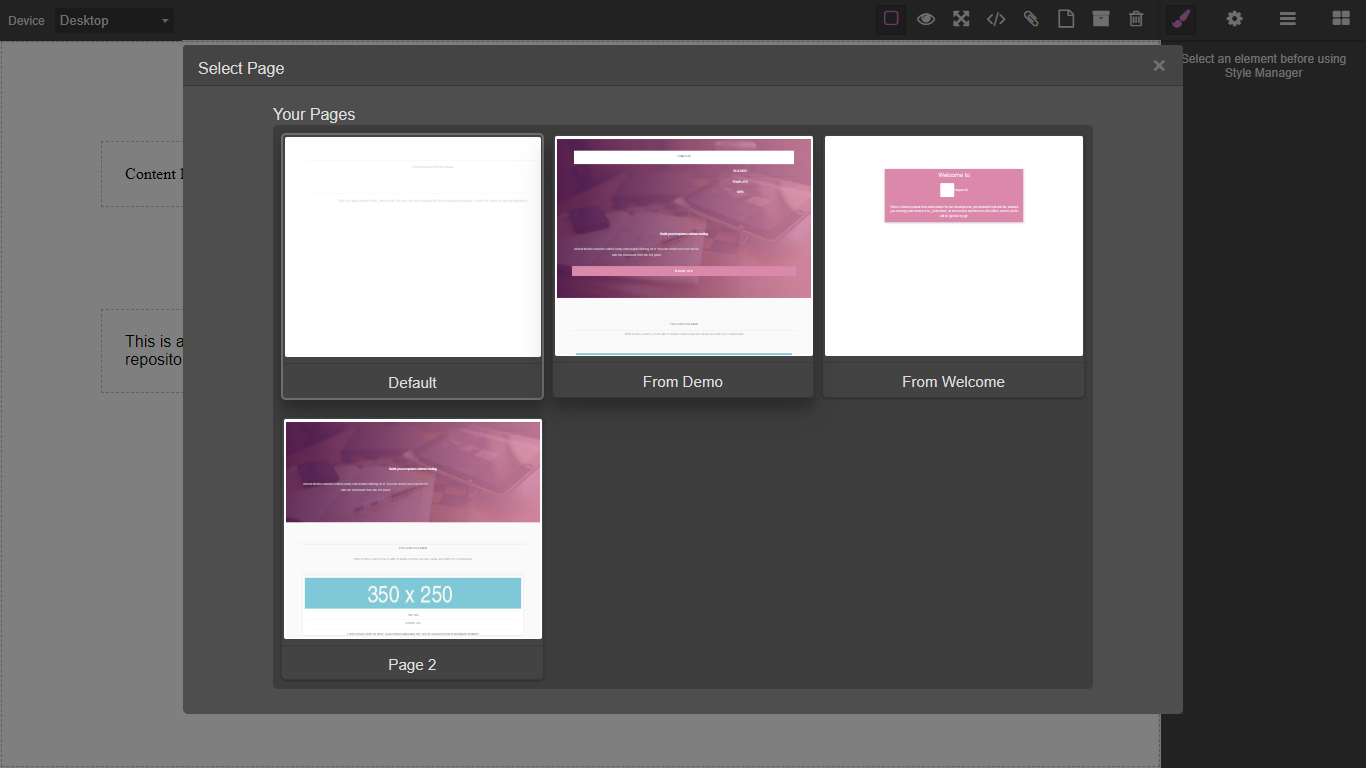
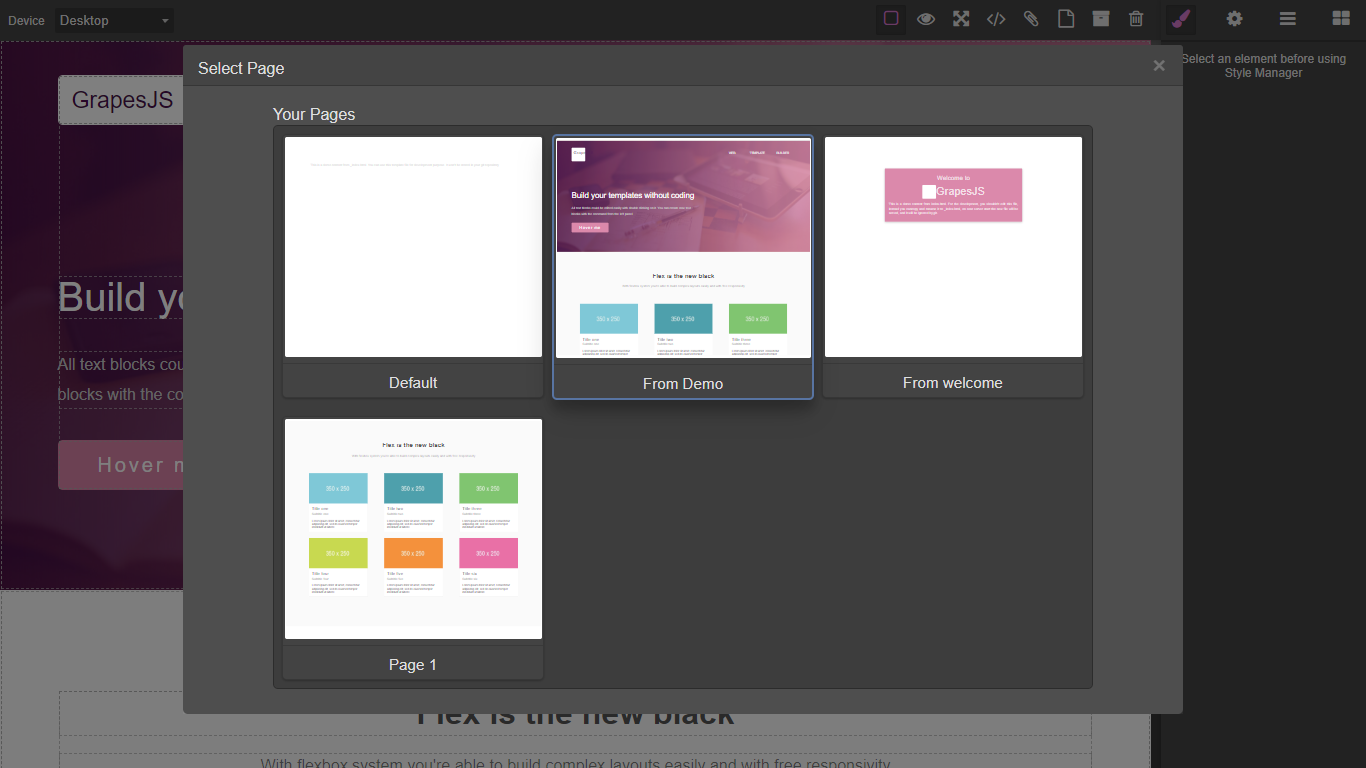
Improve template previews

diff --git a/dist/grapesjs-indexeddb-ui.min.js b/dist/grapesjs-indexeddb-ui.min.js
@@ -1,3 +1,3 @@
-/*! grapesjs-indexeddb-ui - 1.0.1 */
-!function(e,t){'object'==typeof exports&&'object'==typeof module?module.exports=t():'function'==typeof define&&define.amd?define([],t):'object'==typeof exports?exports["grapesjs-indexeddb-ui"]=t():e["grapesjs-indexeddb-ui"]=t()}(window,(function(){return function(e){var t={};function n(r){if(t[r])return t[r].exports;var o=t[r]={i:r,l:!1,exports:{}};return e[r].call(o.exports,o,o.exports,n),o.l=!0,o.exports}return n.m=e,n.c=t,n.d=function(e,t,r){n.o(e,t)||Object.defineProperty(e,t,{enumerable:!0,get:r})},n.r=function(e){'undefined'!=typeof Symbol&&Symbol.toStringTag&&Object.defineProperty(e,Symbol.toStringTag,{value:'Module'}),Object.defineProperty(e,'__esModule',{value:!0})},n.t=function(e,t){if(1&t&&(e=n(e)),8&t)return e;if(4&t&&'object'==typeof e&&e&&e.__esModule)return e;var r=Object.create(null);if(n.r(r),Object.defineProperty(r,'default',{enumerable:!0,value:e}),2&t&&'string'!=typeof e)for(var o in e)n.d(r,o,function(t){return e[t]}.bind(null,o));return r},n.n=function(e){var t=e&&e.__esModule?function(){return e.default}:function(){return e};return n.d(t,'a',t),t},n.o=function(e,t){return Object.prototype.hasOwnProperty.call(e,t)},n.p="",n(n.s=2)}([function(e,t,n){var r=n(3);e.exports=function(e,t){if(null==e)return{};var n,o,s=r(e,t);if(Object.getOwnPropertySymbols){var a=Object.getOwnPropertySymbols(e);for(o=0;o<a.length;o++)n=a[o],t.indexOf(n)>=0||Object.prototype.propertyIsEnumerable.call(e,n)&&(s[n]=e[n])}return s}},function(e,t){e.exports=function(e,t,n){return t in e?Object.defineProperty(e,t,{value:n,enumerable:!0,configurable:!0,writable:!0}):e[t]=n,e}},function(e,t,n){"use strict";n.r(t);var r=n(0),o=n.n(r),s=n(1),a=n.n(s);function i(e,t){var n=Object.keys(e);if(Object.getOwnPropertySymbols){var r=Object.getOwnPropertySymbols(e);t&&(r=r.filter((function(t){return Object.getOwnPropertyDescriptor(e,t).enumerable}))),n.push.apply(n,r)}return n}function c(e){for(var t=1;t<arguments.length;t++){var n=null!=arguments[t]?arguments[t]:{};t%2?i(Object(n),!0).forEach((function(t){a()(e,t,n[t])})):Object.getOwnPropertyDescriptors?Object.defineProperties(e,Object.getOwnPropertyDescriptors(n)):i(Object(n)).forEach((function(t){Object.defineProperty(e,t,Object.getOwnPropertyDescriptor(n,t))}))}return e}t.default=function(e){var t,n=arguments.length>1&&void 0!==arguments[1]?arguments[1]:{},r=c(c({},{dbName:'gjs',objectStoreName:'templates',indexeddbVersion:4,addOnUpgrade:0}),n),s="Default",a="",i="Blank",d=!1,l=document.querySelectorAll.bind(document),u=e.Commands,p=e.Modal,f=e.StorageManager,g='indexeddb',m=r.objectStoreName,v=function(){return f.getConfig().id||'gjs-'},b=function(){return t},j=function(e){if(t)e(t);else{var n=(window.indexedDB||window.mozIndexedDB||window.webkitIndexedDB||window.msIndexedDB).open(r.dbName,r.indexeddbVersion),o=function(){return f.onError(g,n.errorCode)};n.onerror=o,n.onsuccess=function(){(t=n.result).onerror=o,e(t)},n.onupgradeneeded=function(e){e.currentTarget.result.createObjectStore(m,{keyPath:'id'}),r.addOnUpgrade&&r.addOnUpgrade.forEach((function(e){O((function(t){t.put(c({id:e.id,template:e.template},e))}))}))}}},y=function(){return t.transaction([m],'readwrite').objectStore(m)},O=function(e){t?e(y()):j((function(t){return e(y())}))};f.add(g,{getDb:b,getObjectStore:y,load:function(e,t,n){O((function(e){var r=e.get(s);r.onerror=n,r.onsuccess=function(){var e=r.result||{},n=(e.id,e.template,o()(e,["id","template"]));t(n)}}))},loadAll:function(e,t){O((function(n){var r=n.getAll();r.onerror=t,r.onsuccess=function(){e(r.result)}}))},store:function(e,t,n){O((function(r){var o=r.put(c({id:s,template:d},e));o.onerror=n,o.onsuccess=t}))},delete:function(e,t){O((function(n){var r=n.delete(s);r.onerror=t,r.onsuccess=e}))}});var x=function(e,t){return"<div class=\"gjs-templates-card\" data-id=\"".concat(e,"\">\n      ").concat(t,"\n    </div>")},w=function(e){return"<div class=\"gjs-templates-card-2\">\n      ".concat(e,"\n    </div>")},h=function(e){return"<div id=\"templates\" class=\"gjs-templates gjs-one-bg gjs-two-color\">\n      <div class=\"gjs-templates-overlay\"></div>\n      <div class=\"gjs-templates-cont\">\n        <div class=\"gjs-fonts\">\n          <label style=\"font-size: 0.9rem;font-family: Arial, Helvetica, sans-serif; display: block;\" for=\"page-name\">Name</label>\n          <div style=\"width: 50%; display: inline-block;\" class=\"gjs-field\">\n            <input style=\"border: 1px solid rgba(0, 0, 0, 0.2);\n              border-radius: 5px;\n              font-family: Arial, Helvetica, sans-serif;\" type=\"text\" name=\"pageName\" id=\"page-name\">\n          </div>\n          <span style=\"display: inline-block;\">\n            <button class=\"gjs-btn-prim\" style=\"padding: 10px;\n            border-radius: 3px;\n            font-size: 0.9rem;\n            margin-left: 220px;\" id=\"template-edit\">Edit Selected</button>\n          </span>\n          <span style=\"display: inline-block;\">\n            <button class=\"gjs-btn-prim\" style=\"padding: 10px;\n              border-radius: 3px;\n              font-size: 0.9rem;\n              margin-left: 10px;\" id=\"page-create\">Create</button>\n          </span>\n        </div>\n        <div class=\"gjs-templates-header2\">\n          Templates\n        </div>\n        ".concat(e,"\n      </div>\n    </div>")},S=function(e){return"<div id=\"pages\" class=\"gjs-templates gjs-one-bg gjs-two-color\">\n    <div class=\"gjs-templates-overlay\"></div>\n    <div class=\"gjs-templates-cont\">\n      <div class=\"gjs-templates-header2\">\n        Your Pages\n      </div>\n      ".concat(e,"\n      </div>\n    </div>")},P=function(e){var t=!(arguments.length>1&&void 0!==arguments[1])||arguments[1],n='';return e.forEach((function(e){var r="<svg xmlns=\"http://www.w3.org/2000/svg\" class=\"template-preview\" viewBox=\"0 0 1300 1100\" width=\"99%\" height=\"220\">\n        <foreignObject width=\"100%\" height=\"100%\">\n          <div xmlns=\"http://www.w3.org/1999/xhtml\" ".concat(e[v()+'html']?'':'padding-top:100%',"\">\n          ").concat(e[v()+'html']+'<style>'+e[v()+'css']+'</style>',"\n          </div>\n        </foreignObject>\n      </svg>"),o="".concat(r,"\n      <div>").concat(e.id,"</div>");t?e.template&&(n+=x(e.id,o)):!e.template&&(n+=x(e.id,o))})),t?h(w(n)):S(w(n))};u.add('open-templates',{run:function(e,t){var n=document.querySelector('.gjs-mdl-dialog');n.classList.add("gjs-mdl-dialog-tml"),t&&t.set&&t.set('active'),p.setTitle('<div style="font-size: 1rem">Create Page</div>'),e.Storage.get('indexeddb').loadAll((function(t){p.setContent(P(t)),l('.gjs-templates-card').forEach((function(e){return e.dataset.id==i&&e.classList.add('gjs-templates-card-active')})),l('#page-name')[0].addEventListener('keyup',(function(e){return a=e.currentTarget.value})),l('#page-create')[0].addEventListener('click',(function(t){s=i,d=!1,a&&e.load((function(t){e.setComponents(t.components?JSON.parse(t.components):t.html),e.setStyle(t.styles?JSON.parse(t.styles):t.css),s=a,p.close()}))})),l('#template-edit')[0].addEventListener('click',(function(t){s=i,d=!0,e.load((function(t){e.setComponents(t.components?JSON.parse(t.components):t.html),e.setStyle(t.styles?JSON.parse(t.styles):t.css),p.close()}))})),l('.gjs-templates-card').forEach((function(e){e.addEventListener('click',(function(t){i=t.currentTarget.dataset.id,l('.gjs-templates-card').forEach((function(e){return e.classList.remove('gjs-templates-card-active')})),e.classList.add('gjs-templates-card-active')}))}))}),(function(e){return console.log("Error",e)})),p.open(),p.getModel().once('change:open',(function(){document.querySelector('.gjs-mdl-collector').innerHTML="",n.classList.remove("gjs-mdl-dialog-tml")}))}}),u.add('open-pages',{run:function(e,t){var n=document.querySelector('.gjs-mdl-dialog');n.classList.add("gjs-mdl-dialog-tml"),t&&t.set&&t&&t.set('active'),p.setTitle('<div style="font-size: 1rem">Select Page</div>'),e.Storage.get('indexeddb').loadAll((function(t){p.setContent(P(t,!1)),l('.gjs-templates-card').forEach((function(e){return e.dataset.id==s&&e.classList.add('gjs-templates-card-active')})),l('.gjs-templates-card').forEach((function(t){t.addEventListener('click',(function(t){s=t.currentTarget.dataset.id,d=!1,e.load((function(t){e.setComponents(t.components?JSON.parse(t.components):t.html),e.setStyle(t.styles?JSON.parse(t.styles):t.css),p.close()}))}))}))}),(function(e){return console.log("Error",e)})),p.open(),p.getModel().once('change:open',(function(){document.querySelector('.gjs-mdl-collector').innerHTML="",n.classList.remove("gjs-mdl-dialog-tml")}))}}),u.add('save-as-template',{run:function(e,t){d=!0,e.store()}}),u.add('delete-from-idb',{run:function(e,t){e.Storage.get('indexeddb').delete((function(e){return console.log(e)}),(function(e){return console.log(e)})),e.Commands.run('open-pages')}})}},function(e,t){e.exports=function(e,t){if(null==e)return{};var n,r,o={},s=Object.keys(e);for(r=0;r<s.length;r++)n=s[r],t.indexOf(n)>=0||(o[n]=e[n]);return o}}])}));
+/*! grapesjs-indexeddb-ui - 1.0.2 */
+!function(e,t){'object'==typeof exports&&'object'==typeof module?module.exports=t():'function'==typeof define&&define.amd?define([],t):'object'==typeof exports?exports["grapesjs-indexeddb-ui"]=t():e["grapesjs-indexeddb-ui"]=t()}(window,(function(){return function(e){var t={};function n(r){if(t[r])return t[r].exports;var o=t[r]={i:r,l:!1,exports:{}};return e[r].call(o.exports,o,o.exports,n),o.l=!0,o.exports}return n.m=e,n.c=t,n.d=function(e,t,r){n.o(e,t)||Object.defineProperty(e,t,{enumerable:!0,get:r})},n.r=function(e){'undefined'!=typeof Symbol&&Symbol.toStringTag&&Object.defineProperty(e,Symbol.toStringTag,{value:'Module'}),Object.defineProperty(e,'__esModule',{value:!0})},n.t=function(e,t){if(1&t&&(e=n(e)),8&t)return e;if(4&t&&'object'==typeof e&&e&&e.__esModule)return e;var r=Object.create(null);if(n.r(r),Object.defineProperty(r,'default',{enumerable:!0,value:e}),2&t&&'string'!=typeof e)for(var o in e)n.d(r,o,function(t){return e[t]}.bind(null,o));return r},n.n=function(e){var t=e&&e.__esModule?function(){return e.default}:function(){return e};return n.d(t,'a',t),t},n.o=function(e,t){return Object.prototype.hasOwnProperty.call(e,t)},n.p="",n(n.s=2)}([function(e,t,n){var r=n(3);e.exports=function(e,t){if(null==e)return{};var n,o,s=r(e,t);if(Object.getOwnPropertySymbols){var a=Object.getOwnPropertySymbols(e);for(o=0;o<a.length;o++)n=a[o],t.indexOf(n)>=0||Object.prototype.propertyIsEnumerable.call(e,n)&&(s[n]=e[n])}return s}},function(e,t){e.exports=function(e,t,n){return t in e?Object.defineProperty(e,t,{value:n,enumerable:!0,configurable:!0,writable:!0}):e[t]=n,e}},function(e,t,n){"use strict";n.r(t);var r=n(0),o=n.n(r),s=n(1),a=n.n(s);function i(e,t){var n=Object.keys(e);if(Object.getOwnPropertySymbols){var r=Object.getOwnPropertySymbols(e);t&&(r=r.filter((function(t){return Object.getOwnPropertyDescriptor(e,t).enumerable}))),n.push.apply(n,r)}return n}function c(e){for(var t=1;t<arguments.length;t++){var n=null!=arguments[t]?arguments[t]:{};t%2?i(Object(n),!0).forEach((function(t){a()(e,t,n[t])})):Object.getOwnPropertyDescriptors?Object.defineProperties(e,Object.getOwnPropertyDescriptors(n)):i(Object(n)).forEach((function(t){Object.defineProperty(e,t,Object.getOwnPropertyDescriptor(n,t))}))}return e}t.default=function(e){var t,n=arguments.length>1&&void 0!==arguments[1]?arguments[1]:{},r=c(c({},{dbName:'gjs',objectStoreName:'templates',indexeddbVersion:4,addOnUpgrade:0}),n),s="Default",a="",i="Blank",d=!1,l=document.querySelectorAll.bind(document),u=e.Commands,p=e.Modal,f=e.StorageManager,g='indexeddb',m=r.objectStoreName,v=function(){return f.getConfig().id||'gjs-'},b=function(){return t},j=function(e){if(t)e(t);else{var n=(window.indexedDB||window.mozIndexedDB||window.webkitIndexedDB||window.msIndexedDB).open(r.dbName,r.indexeddbVersion),o=function(){return f.onError(g,n.errorCode)};n.onerror=o,n.onsuccess=function(){(t=n.result).onerror=o,e(t)},n.onupgradeneeded=function(e){e.currentTarget.result.createObjectStore(m,{keyPath:'id'}),r.addOnUpgrade&&r.addOnUpgrade.forEach((function(e){O((function(t){t.put(c({id:e.id,template:e.template},e))}))}))}}},y=function(){return t.transaction([m],'readwrite').objectStore(m)},O=function(e){t?e(y()):j((function(t){return e(y())}))};f.add(g,{getDb:b,getObjectStore:y,load:function(e,t,n){O((function(e){var r=e.get(s);r.onerror=n,r.onsuccess=function(){var e=r.result||{},n=(e.id,e.template,o()(e,["id","template"]));t(n)}}))},loadAll:function(e,t){O((function(n){var r=n.getAll();r.onerror=t,r.onsuccess=function(){e(r.result)}}))},store:function(e,t,n){O((function(r){var o=r.put(c({id:s,template:d},e));o.onerror=n,o.onsuccess=t}))},delete:function(e,t){O((function(n){var r=n.delete(s);r.onerror=t,r.onsuccess=e}))}});var x=function(e,t){return"<div class=\"gjs-templates-card\" data-id=\"".concat(e,"\">\n      ").concat(t,"\n    </div>")},w=function(e){return"<div class=\"gjs-templates-card-2\">\n      ".concat(e,"\n    </div>")},h=function(e){return"<div id=\"templates\" class=\"gjs-templates gjs-one-bg gjs-two-color\">\n      <div class=\"gjs-templates-overlay\"></div>\n      <div class=\"gjs-templates-cont\">\n        <div class=\"gjs-fonts\">\n          <label style=\"font-size: 0.9rem;font-family: Arial, Helvetica, sans-serif; display: block;\" for=\"page-name\">Name</label>\n          <div style=\"width: 50%; display: inline-block;\" class=\"gjs-field\">\n            <input style=\"border: 1px solid rgba(0, 0, 0, 0.2);\n              border-radius: 5px;\n              font-family: Arial, Helvetica, sans-serif;\" type=\"text\" name=\"pageName\" id=\"page-name\">\n          </div>\n          <span style=\"display: inline-block;\">\n            <button class=\"gjs-btn-prim\" style=\"padding: 10px;\n            border-radius: 3px;\n            font-size: 0.9rem;\n            margin-left: 220px;\" id=\"template-edit\">Edit Selected</button>\n          </span>\n          <span style=\"display: inline-block;\">\n            <button class=\"gjs-btn-prim\" style=\"padding: 10px;\n              border-radius: 3px;\n              font-size: 0.9rem;\n              margin-left: 10px;\" id=\"page-create\">Create</button>\n          </span>\n        </div>\n        <div class=\"gjs-templates-header2\">\n          Templates\n        </div>\n        ".concat(e,"\n      </div>\n    </div>")},S=function(e){return"<div id=\"pages\" class=\"gjs-templates gjs-one-bg gjs-two-color\">\n    <div class=\"gjs-templates-overlay\"></div>\n    <div class=\"gjs-templates-cont\">\n      <div class=\"gjs-templates-header2\">\n        Your Pages\n      </div>\n      ".concat(e,"\n      </div>\n    </div>")},P=function(e){var t=!(arguments.length>1&&void 0!==arguments[1])||arguments[1],n='';return e.forEach((function(e){var r="<svg xmlns=\"http://www.w3.org/2000/svg\" class=\"template-preview\" viewBox=\"0 0 1300 1100\" width=\"99%\" height=\"220\">\n        <foreignObject width=\"100%\" height=\"100%\" style=\"pointer-events:none\">\n          <div xmlns=\"http://www.w3.org/1999/xhtml\" ".concat(e[v()+'html']?'':'padding-top:100%',"\">\n          ").concat(e[v()+'html']+'<style scoped>'+e[v()+'css']+'</style>',"\n          </div>\n        </foreignObject>\n      </svg>"),o="".concat(r,"\n      <div class=\"label\">").concat(e.id,"</div>");t?e.template&&(n+=x(e.id,o)):!e.template&&(n+=x(e.id,o))})),t?h(w(n)):S(w(n))};u.add('open-templates',{run:function(e,t){var n=document.querySelector('.gjs-mdl-dialog');n.classList.add("gjs-mdl-dialog-tml"),t&&t.set&&t.set('active'),p.setTitle('<div style="font-size: 1rem">Create Page</div>'),e.Storage.get('indexeddb').loadAll((function(t){p.setContent(P(t)),l('.gjs-templates-card').forEach((function(e){return e.dataset.id==i&&e.classList.add('gjs-templates-card-active')})),l('#page-name')[0].addEventListener('keyup',(function(e){return a=e.currentTarget.value})),l('#page-create')[0].addEventListener('click',(function(t){s=i,d=!1,a&&e.load((function(t){e.setComponents(t.components?JSON.parse(t.components):t.html),e.setStyle(t.styles?JSON.parse(t.styles):t.css),s=a,p.close()}))})),l('#template-edit')[0].addEventListener('click',(function(t){s=i,d=!0,e.load((function(t){e.setComponents(t.components?JSON.parse(t.components):t.html),e.setStyle(t.styles?JSON.parse(t.styles):t.css),p.close()}))})),l('.gjs-templates-card').forEach((function(e){e.addEventListener('click',(function(t){i=t.currentTarget.dataset.id,l('.gjs-templates-card').forEach((function(e){return e.classList.remove('gjs-templates-card-active')})),e.classList.add('gjs-templates-card-active')}))}))}),(function(e){return console.log("Error",e)})),p.open(),p.getModel().once('change:open',(function(){document.querySelector('.gjs-mdl-collector').innerHTML="",n.classList.remove("gjs-mdl-dialog-tml")}))}}),u.add('open-pages',{run:function(e,t){var n=document.querySelector('.gjs-mdl-dialog');n.classList.add("gjs-mdl-dialog-tml"),t&&t.set&&t&&t.set('active'),p.setTitle('<div style="font-size: 1rem">Select Page</div>'),e.Storage.get('indexeddb').loadAll((function(t){p.setContent(P(t,!1)),l('.gjs-templates-card').forEach((function(e){return e.dataset.id==s&&e.classList.add('gjs-templates-card-active')})),l('.gjs-templates-card').forEach((function(t){t.addEventListener('click',(function(t){s=t.currentTarget.dataset.id,d=!1,e.load((function(t){e.setComponents(t.components?JSON.parse(t.components):t.html),e.setStyle(t.styles?JSON.parse(t.styles):t.css),p.close()}))}))}))}),(function(e){return console.log("Error",e)})),p.open(),p.getModel().once('change:open',(function(){document.querySelector('.gjs-mdl-collector').innerHTML="",n.classList.remove("gjs-mdl-dialog-tml")}))}}),u.add('save-as-template',{run:function(e,t){d=!0,e.store()}}),u.add('delete-from-idb',{run:function(e,t){e.Storage.get('indexeddb').delete((function(e){return console.log(e)}),(function(e){return console.log(e)})),e.Commands.run('open-pages')}})}},function(e,t){e.exports=function(e,t){if(null==e)return{};var n,r,o={},s=Object.keys(e);for(r=0;r<s.length;r++)n=s[r],t.indexOf(n)>=0||(o[n]=e[n]);return o}}])}));
 //# sourceMappingURL=grapesjs-indexeddb-ui.min.js.map

diff --git a/dist/grapesjs-indexeddb-ui.min.css b/dist/grapesjs-indexeddb-ui.min.css
@@ -1,1 +1,1 @@
-.gjs-templates{position:absolute;top:41px;left:0;width:100%;max-height:calc(100vh - 70px);border-radius:5px;z-index:4}.gjs-templates-overlay{position:absolute;pointer-events:none;top:0;width:100%;height:100%;background-color:rgba(255,255,255,0.05)}.gjs-templates-header2{font-size:1rem;font-family:Arial, Helvetica, sans-serif;font-weight:lighter;margin-top:10px}.gjs-templates-header1{font-size:2rem;font-family:Arial, Helvetica, sans-serif;font-weight:lighter;margin-bottom:10px}.gjs-templates-cont{margin:2% 9% 0 9%}.gjs-templates-font{font-size:1rem;font-family:Arial, Helvetica, sans-serif;font-weight:lighter;margin-bottom:10px}.gjs-templates-card{width:32%;height:0;padding-bottom:32%;margin-left:8.2px;margin-top:8.2px;margin-bottom:8.2px;border-radius:5px;border:1px solid rgba(0,0,0,0.24);box-shadow:0 1px 3px rgba(0,0,0,0.12),0 1px 2px rgba(0,0,0,0.24);transition:all 0.3s cubic-bezier(0.25, 0.8, 0.25, 1);background-color:rgba(255,255,255,0.03)}.gjs-templates-card svg.template-preview{margin:2px;background-color:white;border-radius:2px}.gjs-templates-card div{border-top:1px solid rgba(0,0,0,0.2);width:100%;font-size:0.95rem;font-family:Arial, Helvetica, sans-serif;text-align:center;font-weight:lighter;padding:10px}.gjs-templates-card:hover{box-shadow:0 14px 28px rgba(0,0,0,0.25),0 10px 10px rgba(0,0,0,0.22)}.gjs-templates-card-active{box-shadow:0 14px 28px rgba(0,0,0,0.25),0 10px 10px rgba(0,0,0,0.22);border:2px solid rgba(255,255,255,0.22)}.gjs-templates-card-2{display:flex;flex-wrap:wrap;min-height:200px;max-height:calc(100vh - 195px);overflow-y:auto;margin-top:1px;margin-bottom:25px;width:100%;border-radius:5px;background-color:rgba(0,0,0,0.25)}.gjs-templates-card-2::-webkit-scrollbar{width:8px}.gjs-templates-card-2::-webkit-scrollbar-thumb{background-color:rgba(255,255,255,0.2)}.gjs-templates-card-2::-webkit-scrollbar-track{background:rgba(0,0,0,0.1)}.gjs-mdl-dialog-tml{max-width:1000px;margin-top:45px}
+.gjs-templates{position:absolute;top:41px;left:0;width:100%;max-height:calc(100vh - 70px);border-radius:5px;z-index:4}.gjs-templates-overlay{position:absolute;pointer-events:none;top:0;width:100%;height:100%;background-color:rgba(255,255,255,0.05)}.gjs-templates-header2{font-size:1rem;font-family:Arial, Helvetica, sans-serif;font-weight:lighter;margin-top:10px}.gjs-templates-header1{font-size:2rem;font-family:Arial, Helvetica, sans-serif;font-weight:lighter;margin-bottom:10px}.gjs-templates-cont{margin:2% 9% 0 9%}.gjs-templates-font{font-size:1rem;font-family:Arial, Helvetica, sans-serif;font-weight:lighter;margin-bottom:10px}.gjs-templates-card{width:32%;height:0;padding-bottom:32%;margin-left:8.2px;margin-top:8.2px;margin-bottom:8.2px;border-radius:5px;cursor:pointer;border:1px solid rgba(0,0,0,0.24);box-shadow:0 1px 3px rgba(0,0,0,0.12),0 1px 2px rgba(0,0,0,0.24);transition:all 0.3s cubic-bezier(0.25, 0.8, 0.25, 1);background-color:rgba(255,255,255,0.03)}.gjs-templates-card svg.template-preview{margin:2px;background-color:white;border:1px solid white;border-radius:2px}.gjs-templates-card div.label{border-top:1px solid rgba(0,0,0,0.2);width:100%;font-size:0.95rem;font-family:Arial, Helvetica, sans-serif;text-align:center;font-weight:lighter;padding:10px}.gjs-templates-card:hover{box-shadow:0 14px 28px rgba(0,0,0,0.25),0 10px 10px rgba(0,0,0,0.22)}.gjs-templates-card-active{box-shadow:0 14px 28px rgba(0,0,0,0.25),0 10px 10px rgba(0,0,0,0.22);border:2px solid rgba(100,160,255,0.5)}.gjs-templates-card-2{display:flex;flex-wrap:wrap;min-height:200px;max-height:calc(100vh - 195px);overflow-y:auto;margin-top:1px;margin-bottom:25px;width:100%;border-radius:5px;border:1px solid rgba(0,0,0,0.35);background-color:rgba(0,0,0,0.25)}.gjs-templates-card-2::-webkit-scrollbar{width:8px}.gjs-templates-card-2::-webkit-scrollbar-thumb{background-color:rgba(255,255,255,0.2)}.gjs-templates-card-2::-webkit-scrollbar-track{background:rgba(0,0,0,0.1)}.gjs-mdl-dialog-tml{max-width:1000px;margin-top:45px}

diff --git a/src/index.js b/src/index.js
@@ -205,14 +205,14 @@ export default (editor, opts = {}) => {
     let thumbnails = '';
     data.forEach(el => {
       let dataSvg = `<svg xmlns="http://www.w3.org/2000/svg" class="template-preview" viewBox="0 0 1300 1100" width="99%" height="220">
-        <foreignObject width="100%" height="100%">
+        <foreignObject width="100%" height="100%" style="pointer-events:none">
           <div xmlns="http://www.w3.org/1999/xhtml" ${el[getId()+'html'] ? '' : 'padding-top:100%'}">
-          ${el[getId()+'html'] + '<style>' + el[getId()+'css'] + '</style>'}
+          ${el[getId()+'html'] + '<style scoped>' + el[getId()+'css'] + '</style>'}
           </div>
         </foreignObject>
       </svg>`;
       let thumbnail = `${dataSvg}
-      <div>${el.id}</div>`;
+      <div class="label">${el.id}</div>`;
       templatesRender ? el.template && (() => thumbnails += thumbs(el.id, thumbnail))() :
         !el.template && (() => thumbnails += thumbs(el.id, thumbnail))();
     });

diff --git a/src/styles.scss b/src/styles.scss
@@ -50,6 +50,7 @@
     margin-top: 8.2px;
     margin-bottom: 8.2px;
     border-radius: 5px;
+    cursor: pointer;
     border: 1px solid rgba(0, 0, 0, 0.24);
     box-shadow: 0 1px 3px rgba(0, 0, 0, 0.12), 0 1px 2px rgba(0, 0, 0, 0.24);
     transition: all 0.3s cubic-bezier(.25, .8, .25, 1);
@@ -58,10 +59,11 @@
     & svg.template-preview {
         margin: 2px;
         background-color: white;
+        border: 1px solid white;
         border-radius: 2px;
     }
 
-    & div {
+    & div.label {
         border-top: 1px solid rgba(0, 0, 0, 0.2);
         width: 100%;
         font-size: 0.95rem;
@@ -77,7 +79,7 @@
 
     &-active {
         box-shadow: 0 14px 28px rgba(0, 0, 0, 0.25), 0 10px 10px rgba(0, 0, 0, 0.22);
-        border: 2px solid rgba(100, 160, 255, 0.22);
+        border: 2px solid rgba(100, 160, 255, 0.5);
     }
 }
 
